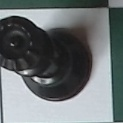
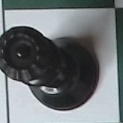
finished collecting training data for white king

diff --git a/brain.py b/brain.py
@@ -59,7 +59,7 @@ def initBoard():
     squares = []
     counter = 1
     coordinates = [
-        ((517, 640), (22, 136)), ((517, 640), (139, 253)), ((524, 647), (252, 366)), ((525, 648), (364, 478)),
+        ((500, 623), (22, 136)), ((510, 633), (139, 253)), ((524, 647), (252, 366)), ((525, 648), (364, 478)),
         ((529, 652), (472, 586)), ((529, 652), (580, 694)), ((530, 653), (690, 804)), ((533, 656), (799, 913)),
         ((628, 751), (24, 138)), ((630, 753), (137, 251)), ((635, 758), (251, 365)), ((635, 758), (366, 480)),
         ((640, 763), (474, 588)), ((640, 763), (584, 698)), ((643, 766), (692, 806)), ((643, 766), (799, 913)),
@@ -74,7 +74,7 @@ def initBoard():
         ((1193, 1316), (24, 138)), ((1188, 1311), (138, 252)), ((1188, 1311), (252, 366)), ((1188, 1311), (364, 478)),
         ((1183, 1306), (473, 587)), ((1183, 1306), (582, 696)), ((1183, 1306), (688, 802)), ((1183, 1306), (794, 908)),
         ((1302, 1425), (26, 140)), ((1302, 1425), (140, 254)), ((1300, 1423), (254, 368)), ((1297, 1420), (364, 478)),
-        ((1294, 1417), (473, 587)), ((1291, 1414), (581, 695)), ((1288, 1411), (688, 802)), ((1285, 1408), (792, 906))
+        ((1294, 1417), (473, 587)), ((1291, 1414), (581, 695)), ((1288, 1411), (688, 802)), ((1295, 1418), (800, 914))
     ]
     for coords in coordinates:
         squares.append(square(coords[0], coords[1], counter))
@@ -212,7 +212,7 @@ def main():
                     square.saveImage(squares)
                 return
                 '''
-                collect2PData(board, squares, 63, 63, "black", "queen", 8, 8)
+                collect2PData(board, squares, 63, 63, "empty", "square", 8, 8)
                 #collectData(board, squares)
                 cv2.imshow("Frame", squares[22:136, 517:640])
                 if cv2.waitKey(1) & 0xFF == ord('q'):
